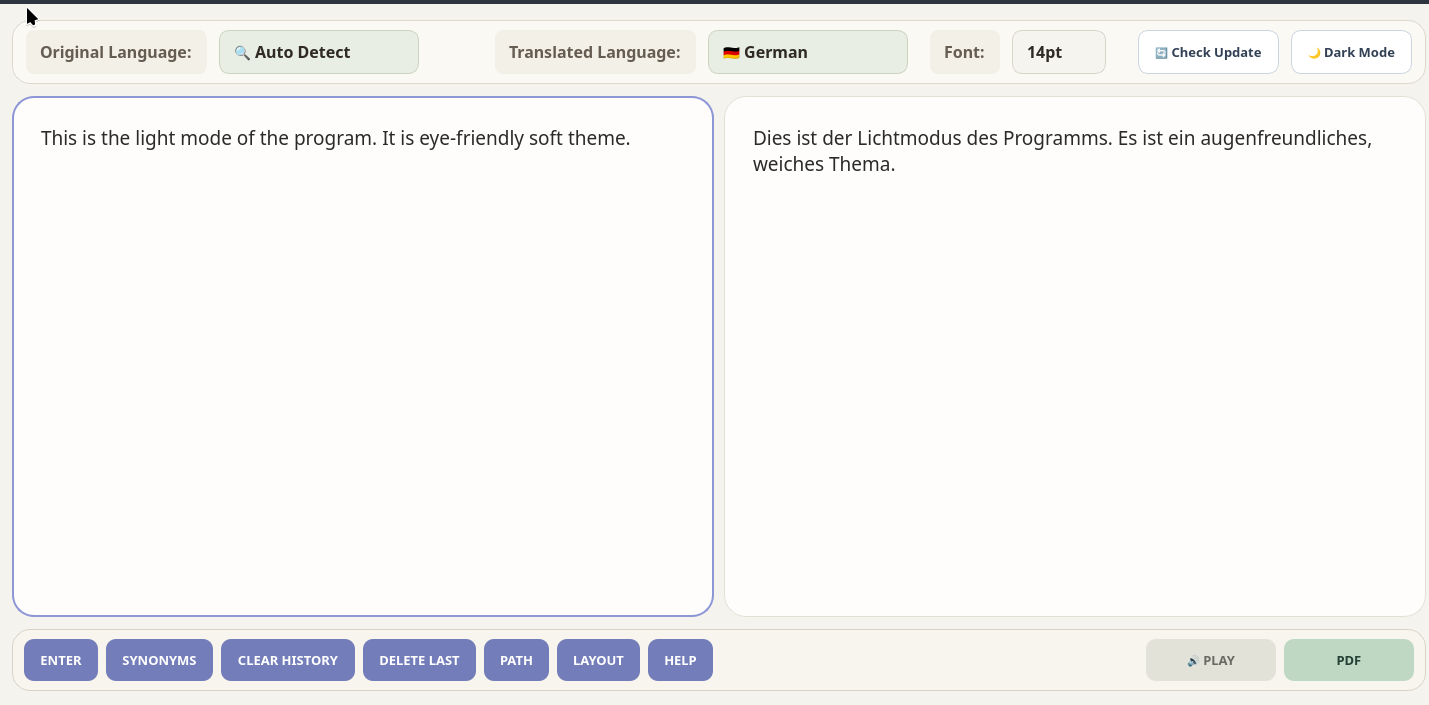
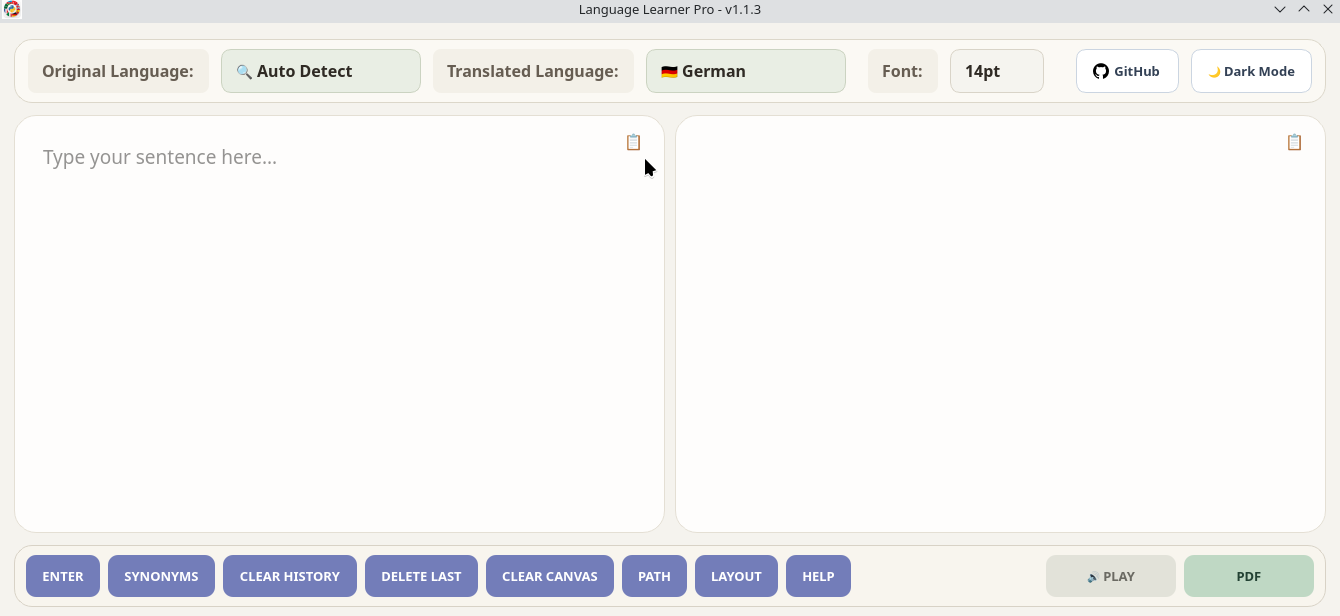
feat: release v1.2.0 - UI polish, clear canvas, and copy buttons

diff --git a/main.py b/main.py
@@ -11,7 +11,7 @@ from datetime import datetime
 from PyQt6.QtWidgets import (QApplication, QMainWindow, QWidget, QVBoxLayout, 
                              QHBoxLayout, QTextEdit, QPushButton, QComboBox, QCheckBox,
                              QLabel, QMessageBox, QFileDialog, QDialog, QRadioButton, QListView, QScrollArea)
-from PyQt6.QtCore import Qt, QEvent, QThread, pyqtSignal
+from PyQt6.QtCore import Qt, QEvent, QThread, pyqtSignal, QTimer
 from PyQt6.QtGui import QFont, QShortcut, QKeySequence, QIcon, QColor, QTextCharFormat
 from deep_translator import GoogleTranslator
 import database
@@ -326,8 +326,9 @@ class LanguageLearnerUI(QMainWindow):
         top_bar.addSpacing(20)
         
         # --- GITHUB BUTTON ---
-        self.btn_github = QPushButton("🌐 GitHub")
+        self.btn_github = QPushButton(" GitHub")
         self.btn_github.setObjectName("btn_github")
+        self.btn_github.setIcon(QIcon("images/github.svg"))
         self.btn_github.setCursor(Qt.CursorShape.PointingHandCursor)
         
         # Professional Tooltip
@@ -358,6 +359,20 @@ class LanguageLearnerUI(QMainWindow):
         self.output_text.setFont(QFont("Arial", 14))
         self.output_text.setReadOnly(True)
         self.output_text.document().setDefaultStyleSheet("")
+        self.output_text.installEventFilter(self)
+
+        # --- NEW: FLOATING COPY BUTTONS ---
+        self.btn_copy_in = QPushButton("📋", self.input_text)
+        self.btn_copy_in.setObjectName("copyBtn")
+        self.btn_copy_in.setCursor(Qt.CursorShape.PointingHandCursor)
+        self.btn_copy_in.setToolTip("Copy Original Text")
+        self.btn_copy_in.clicked.connect(lambda: self.copy_to_clipboard(self.input_text, self.btn_copy_in))
+
+        self.btn_copy_out = QPushButton("📋", self.output_text)
+        self.btn_copy_out.setObjectName("copyBtn")
+        self.btn_copy_out.setCursor(Qt.CursorShape.PointingHandCursor)
+        self.btn_copy_out.setToolTip("Copy Translated Text")
+        self.btn_copy_out.clicked.connect(lambda: self.copy_to_clipboard(self.output_text, self.btn_copy_out))
         
         text_layout.addWidget(self.input_text)
         text_layout.addWidget(self.output_text)
@@ -582,6 +597,18 @@ class LanguageLearnerUI(QMainWindow):
                     border-radius: 22px;
                     padding: 24px;
                     line-height: 1.8;
+                }
+                                                  
+                QPushButton#copyBtn {
+                    background-color: transparent;
+                    border: none;
+                    font-size: 18px;
+                    padding: 4px;
+                    min-height: 0px;
+                }
+                QPushButton#copyBtn:hover {
+                    background-color: #2E4772;
+                    border-radius: 8px;
                 }
 
                 QTextEdit:focus {
@@ -856,6 +883,18 @@ class LanguageLearnerUI(QMainWindow):
                 QPushButton#btn_theme:hover, QPushButton#btn_github:hover { 
                     background-color: #F1F5F9; 
                 }
+                                                  
+                QPushButton#copyBtn {
+                    background-color: transparent;
+                    border: none;
+                    font-size: 18px;
+                    padding: 4px;
+                    min-height: 0px;
+                }
+                QPushButton#copyBtn:hover {
+                    background-color: #E4DFD4;
+                    border-radius: 8px;
+                }
                 
                 /* COMBO BOX */
                 QComboBox {
@@ -1112,6 +1151,20 @@ class LanguageLearnerUI(QMainWindow):
         """Clears the right-side translation area visually without affecting the database."""
         self.output_text.clear()
 
+    def copy_to_clipboard(self, text_box, button):
+        """Copies text to the clipboard and gives instant visual feedback."""
+        text = text_box.toPlainText()
+        if not text:
+            return
+            
+        QApplication.clipboard().setText(text)
+        
+        # Change icon to checkmark
+        button.setText("✅")
+        
+        # Create a timer to change it back to the clipboard icon after 1.5 seconds
+        QTimer.singleShot(1500, lambda: button.setText("📋"))
+
     def generate_pdf(self):
         try:
             export_time = datetime.now().strftime("%Y_%m_%d_%H_%M")
@@ -1131,8 +1184,8 @@ class LanguageLearnerUI(QMainWindow):
 
     def show_help_dialog(self):
         dialog = QDialog(self)
-        dialog.setWindowTitle("Language Learner Pro - User Guide")
-        dialog.resize(600, 500) 
+        dialog.setWindowTitle("Language Learner - User Guide")
+        dialog.resize(620, 550) 
         
         # Determine background color based on theme
         bg_color = "#071224" if self.is_dark_mode else "#F5F3EE"
@@ -1157,39 +1210,41 @@ class LanguageLearnerUI(QMainWindow):
         
         # --- THE MASTER INSTRUCTIONS LIST ---
         instructions = """
-        <h2 style='margin-bottom: 5px; font-size: 22px;'>🚀 Welcome to Language Learner Pro</h2>
-        <p style='font-size: 14px;'>Your premium tool for seamless language translation, precise pronunciation, and elegant document generation.</p>
+        <h2 style='margin-bottom: 5px; font-size: 22px;'>🚀 Welcome to Language Learner</h2>
+        <p style='font-size: 14px;'>Language Learner is a simple, distraction-free tool to translate text, listen to pronunciations, and automatically save your study notes into beautiful PDFs.</p>
         
-        <hr style='border: 1px solid #475569; margin: 15px 0;'>
+        <hr style='border: 1px solid #64748B; margin: 15px 0;'>
 
-        <h3 style='font-size: 16px;'>📝 Core Features</h3>
-        <ul style='font-size: 14px; margin-left: -20px;'>
-            <li style='margin-bottom: 8px;'><b>Translation:</b> Type your sentence and press <b>ENTER</b>.</li>
-            <li style='margin-bottom: 8px;'><b>Auto Detect:</b> Set 'Original Language' to Auto Detect to automatically identify the source text.</li>
-            <li style='margin-bottom: 8px;'><b>Synonyms:</b> Enter a <i>single word</i> and click <b>SYNONYMS</b> to fetch top matching vocabulary.</li>
-            <li style='margin-bottom: 8px;'><b>Pronunciation:</b> Select Russian, Arabic, or Persian to reveal the <b>Show Pronunciation</b> toggle for phonetic transliteration.</li>
-            <li style='margin-bottom: 8px;'><b>Audio Playback:</b> Click <b>🔊 PLAY</b> to hear a native text-to-speech voice read your translation aloud.</li>
-            <li style='margin-bottom: 8px;'><b>German Articles:</b> Translating a single noun into German automatically fetches its specific article (der/die/das).</li>
+        <h3 style='font-size: 16px;'>✨ Core Features</h3>
+        <ul style='font-size: 14px; margin-left: -20px; line-height: 1.6;'>
+            <li style='margin-bottom: 6px;'><b>Translation:</b> Type your word or sentence and click <b>ENTER</b>.</li>
+            <li style='margin-bottom: 6px;'><b>Auto Detect:</b> Not sure what language you are reading? Choose 'Auto Detect' and let the app figure it out.</li>
+            <li style='margin-bottom: 6px;'><b>Synonyms:</b> Type a single word and click <b>SYNONYMS</b> to see similar words and expand your vocabulary.</li>
+            <li style='margin-bottom: 6px;'><b>Pronunciation:</b> Translating to Russian, Arabic, or Persian? Check <b>Show Pronunciation</b> to see how to read the alphabet in English letters.</li>
+            <li style='margin-bottom: 6px;'><b>Audio Playback:</b> Click <b>🔊 PLAY</b> to hear a native voice read your translation out loud.</li>
+            <li style='margin-bottom: 6px;'><b>German Articles:</b> Translate a single English noun to German, and the app will automatically find the correct "der, die, or das" for you.</li>
+            <li style='margin-bottom: 6px;'><b>Font Adjustments:</b> Use the 'Font' dropdown at the top to make the text bigger or smaller for easy reading.</li>
         </ul>
 
-        <h3 style='font-size: 16px; margin-top: 15px;'>📄 PDF Exporting</h3>
-        <ul style='font-size: 14px; margin-left: -20px;'>
-            <li style='margin-bottom: 8px;'><b>PATH:</b> Choose the directory where your exported documents are saved.</li>
-            <li style='margin-bottom: 8px;'><b>LAYOUT:</b> Toggle between a stacked 1-Column format or a 2-Column (Side-by-Side) format.</li>
-            <li style='margin-bottom: 8px;'><b>PDF:</b> Generates a formatted document of your current session with automatic Right-To-Left (RTL) script embedding.</li>
+        <h3 style='font-size: 16px; margin-top: 15px;'>📄 PDF Exporting & History</h3>
+        <p style='font-size: 14px; margin-bottom: 10px;'>Everything you translate is temporarily saved in your current session so you can export it as a study guide.</p>
+        <ul style='font-size: 14px; margin-left: -20px; line-height: 1.6;'>
+            <li style='margin-bottom: 6px;'><b>PATH:</b> Choose the exact folder on your computer where your PDFs will be saved.</li>
+            <li style='margin-bottom: 6px;'><b>LAYOUT:</b> Choose how your PDF looks: a stacked 1-Column format, or a side-by-side view.</li>
+            <li style='margin-bottom: 6px;'><b>PDF:</b> Click this to instantly create and save a beautiful document of everything you learned today.</li>
+            <li style='margin-bottom: 6px;'><b>DELETE LAST:</b> Made a mistake? Click this to remove your very last translation from the PDF memory.</li>
+            <li style='margin-bottom: 6px;'><b>CLEAR HISTORY:</b> Click this to completely wipe the current memory and start a fresh study session.</li>
         </ul>
 
         <h3 style='font-size: 16px; margin-top: 15px;'>⌨ Keyboard Shortcuts</h3>
-        <ul style='font-size: 14px; margin-left: -20px;'>
-            <li style='margin-bottom: 8px;'><b>Shift + Enter:</b> Instantly translate text while typing.</li>
-            <li style='margin-bottom: 8px;'><b>Ctrl + Shift + E:</b> Instantly export the session to PDF.</li>
+        <ul style='font-size: 14px; margin-left: -20px; line-height: 1.6;'>
+            <li style='margin-bottom: 8px;'><b>Shift + Enter</b> &nbsp;&mdash;&nbsp; Translate Text</li>
+            <li style='margin-bottom: 8px;'><b>Ctrl + Delete</b> &nbsp;&mdash;&nbsp; Clear Canvas</li>
+            <li style='margin-bottom: 8px;'><b>Ctrl + Shift + E</b> &nbsp;&mdash;&nbsp; Export to PDF</li>
         </ul>
 
-        <h3 style='font-size: 16px; margin-top: 15px;'>🧹 Session Management</h3>
-        <ul style='font-size: 14px; margin-left: -20px;'>
-            <li style='margin-bottom: 8px;'><b>DELETE LAST:</b> Removes the single most recent query from your database.</li>
-            <li style='margin-bottom: 8px;'><b>CLEAR HISTORY:</b> Permanently wipes the current session data.</li>
-        </ul>
+        <h3 style='font-size: 16px; margin-top: 15px;'>🌐 Support the Project</h3>
+        <p style='font-size: 14px;'>If you enjoy using Language Learner, click the <b>GitHub</b> button at the top to visit the official repository. You can check for new releases, view the source code, and leave a ⭐ star to support the project!</p>
         """
         
         # Apply theme-specific text colors
@@ -1221,10 +1276,19 @@ class LanguageLearnerUI(QMainWindow):
 
 
     def eventFilter(self, source, event):
+        # 1. Keep the buttons glued to the top-right corners when the window resizes
+        if event.type() == QEvent.Type.Resize:
+            if source is self.input_text:
+                self.btn_copy_in.move(self.input_text.width() - 45, 15)
+            elif source is self.output_text:
+                self.btn_copy_out.move(self.output_text.width() - 45, 15)
+
+        # 2. Keep your existing Shift+Enter translation logic
         if source is self.input_text and event.type() == QEvent.Type.KeyPress:
             if event.key() == Qt.Key.Key_Return and event.modifiers() == Qt.KeyboardModifier.ShiftModifier:
                 self.translate_text()
                 return True 
+                
         return super().eventFilter(source, event)
 
     def closeEvent(self, event):
